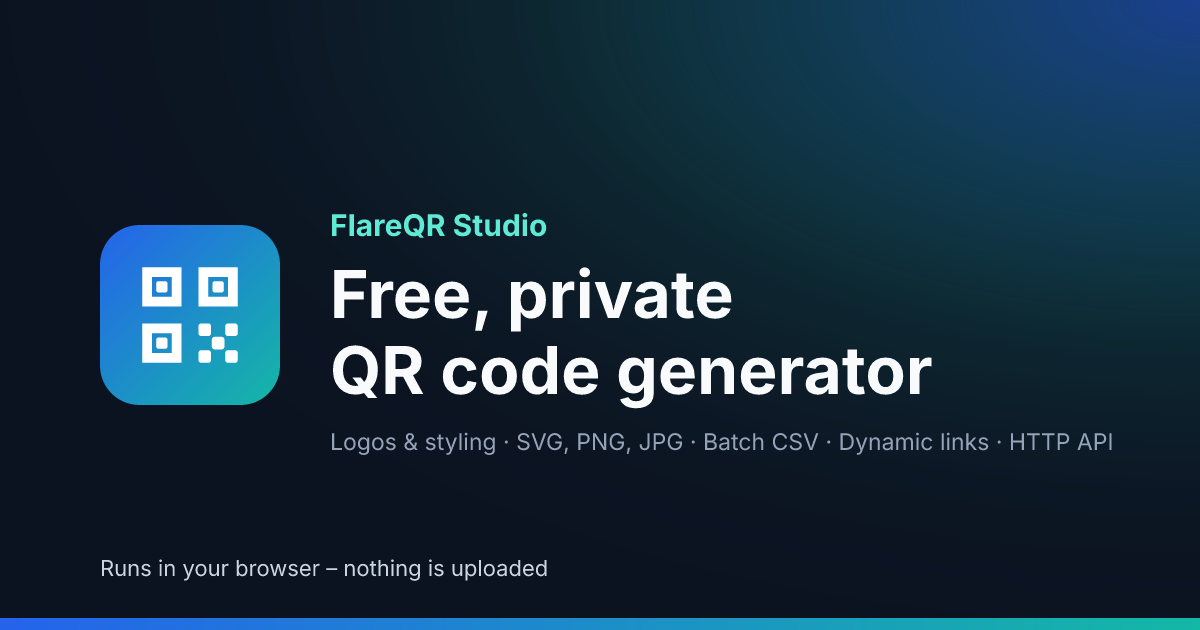
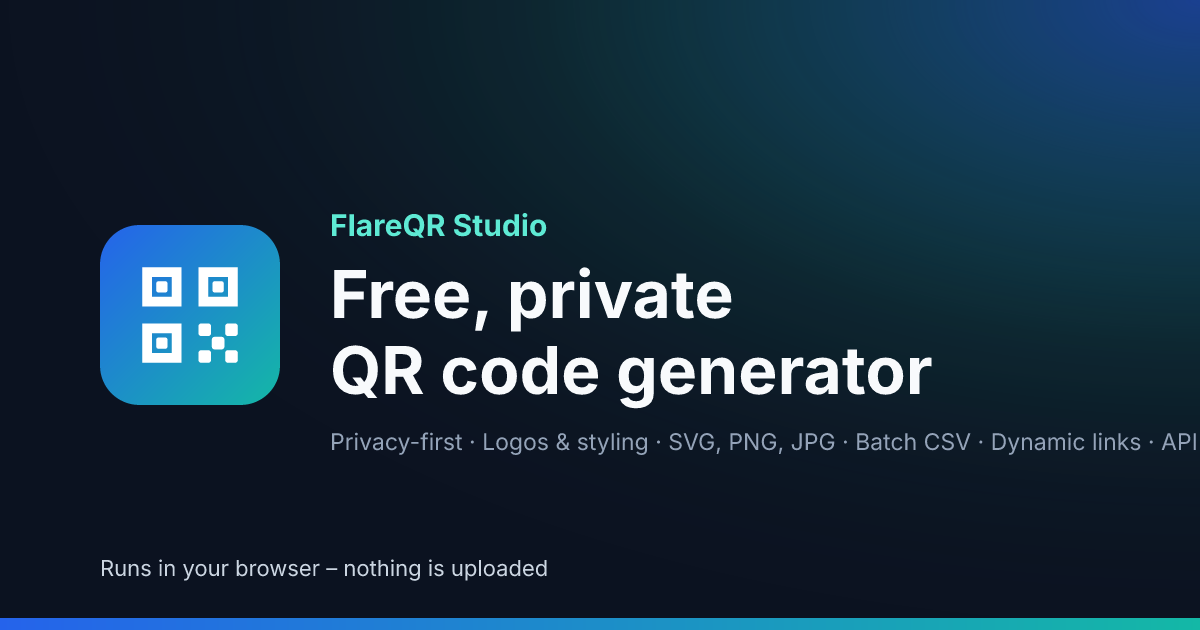
Add privacy-first and toolkit marketing copy to SEO metadata and an About section below the editor
- branding.seo: privacy-led description, keywords, about copy and feature list
- JSON-LD gains keywords and featureList
- New AboutSection rendered under the Studio editor (not in the header)
- OG image caption leads with privacy

Changed region(s): [[0.2775, 0.6635, 1.0, 0.7238]]

diff --git a/src/config/branding.ts b/src/config/branding.ts
@@ -36,12 +36,52 @@ export const branding = {
     titleTagline: 'Free, private QR code generator',
     /** Meta description / social preview text (aim for ≤ 160 characters). */
     description:
-      'Create styled QR codes with logos and export SVG, PNG or JPG – free, in your browser, nothing uploaded. Batch CSV generation, dynamic links and an HTTP API.',
+      'Privacy-first QR code generator – everything runs in your browser, nothing is uploaded. Logos and styling, SVG/PNG/JPG export, batch CSV, dynamic links and an HTTP API.',
+    /** Search keywords (JSON-LD `keywords`); pick the phrases people actually search for. */
+    keywords: [
+      'QR code generator',
+      'privacy-first QR code',
+      'QR code with logo',
+      'SVG QR code',
+      'batch QR codes from CSV',
+      'dynamic QR codes',
+      'QR code API',
+      'self-hosted QR code generator',
+      'open source',
+      'Cloudflare Workers',
+    ],
     /** Visible <h1> of the Studio view. */
     headline: 'Free, private QR code generator',
     /** One-sentence intro shown next to the headline. */
     intro:
       'Design QR codes with logos and colours, check scan reliability and export SVG, PNG or JPG – generated locally in your browser.',
+    /**
+     * Marketing copy shown below the editor on the Studio view and mirrored in
+     * the JSON-LD `featureList` so search engines see the same message.
+     */
+    about: {
+      privacy: {
+        title: 'Privacy first',
+        text: 'Every QR code is generated locally in your browser: the content you enter is never uploaded, logged or tracked. No accounts, no analytics, no third-party scripts. Self-host it on your own Cloudflare account and stay in full control of your data.',
+      },
+      toolkit: {
+        title: 'A complete QR toolkit',
+        text: 'Far more than a URL-to-QR converter – one open-source studio covers the whole workflow from design to automation.',
+      },
+    },
+    /** Tools and capabilities, listed on the Studio view and in structured data. */
+    features: [
+      '20 content types: URL, text, Wi-Fi, vCard, MeCard, email, phone, SMS, WhatsApp, events, location, SEPA, Bitcoin, Ethereum, 2FA and more',
+      'Module and finder styles, colours, gradients, frames and captions',
+      'Logo embedding that keeps codes scannable',
+      'Scan-reliability check with one-click safe defaults',
+      'SVG, PNG and JPG export, clipboard and data-URL copy',
+      'Batch generation from CSV with ZIP download',
+      'Editable dynamic links with scan statistics',
+      'Presets, undo/redo, local history and an offline-capable PWA',
+      'Documented HTTP API with OpenAPI 3.1 specification',
+      'Self-hosted on Cloudflare Workers, open source (MIT)',
+    ],
     /** 1200×630 social preview image served from the assets directory (see scripts/generate-icons.mjs). */
     imagePath: '/og-image.png',
     /** Twitter/X card type. */

diff --git a/src/app/components/layout/AboutSection.tsx b/src/app/components/layout/AboutSection.tsx
@@ -1,0 +1,45 @@
+import { Check, ShieldCheck, Wrench } from 'lucide-react';
+
+import { branding } from '../../../config/branding';
+import { cn } from '../../lib/cn';
+import { useServer } from '../../store/server';
+
+/**
+ * Marketing copy shown below the editor on the Studio view: the privacy model
+ * and the breadth of tools. Deliberately outside the header so the working
+ * area stays uncluttered while crawlers still find descriptive, visible text.
+ */
+export function AboutSection({ className }: { className?: string }) {
+  const appName = useServer((s) => s.features.appName) || branding.name;
+  const { about, features } = branding.seo;
+
+  return (
+    <section aria-labelledby="about-heading" className={cn('grid gap-4 lg:grid-cols-[2fr_3fr]', className)}>
+      <h2 id="about-heading" className="sr-only">
+        About {appName}
+      </h2>
+      <div className="panel p-5">
+        <h3 className="flex items-center gap-2 text-base font-semibold">
+          <ShieldCheck size={18} aria-hidden className="text-accent-600 dark:text-accent-400" />
+          {about.privacy.title}
+        </h3>
+        <p className="mt-2 text-sm leading-relaxed text-muted">{about.privacy.text}</p>
+      </div>
+      <div className="panel p-5">
+        <h3 className="flex items-center gap-2 text-base font-semibold">
+          <Wrench size={18} aria-hidden className="text-brand-600 dark:text-brand-300" />
+          {about.toolkit.title}
+        </h3>
+        <p className="mt-2 text-sm leading-relaxed text-muted">{about.toolkit.text}</p>
+        <ul className="mt-3 grid gap-x-4 gap-y-1.5 text-sm sm:grid-cols-2">
+          {features.map((feature) => (
+            <li key={feature} className="flex items-start gap-2">
+              <Check size={14} aria-hidden className="mt-1 shrink-0 text-accent-600 dark:text-accent-400" />
+              <span>{feature}</span>
+            </li>
+          ))}
+        </ul>
+      </div>
+    </section>
+  );
+}

diff --git a/tests/e2e/studio.spec.ts b/tests/e2e/studio.spec.ts
@@ -189,8 +189,19 @@ test.describe('FlareQR Studio', () => {
     await expect(head.locator('meta[property="og:title"]')).toHaveAttribute('content', /FlareQR Studio/);
     await expect(head.locator('meta[property="og:image"]')).toHaveAttribute('content', /og-image\.png$/);
     await expect(head.locator('meta[name="twitter:card"]')).toHaveAttribute('content', 'summary_large_image');
-    const jsonLd = await head.locator('script[type="application/ld+json"]').textContent();
-    expect(JSON.parse(jsonLd ?? '{}')).toMatchObject({ '@type': 'WebApplication', name: 'FlareQR Studio' });
+    const jsonLd = JSON.parse(
+      (await head.locator('script[type="application/ld+json"]').textContent()) ?? '{}',
+    ) as { featureList?: string[]; keywords?: string };
+    expect(jsonLd).toMatchObject({ '@type': 'WebApplication', name: 'FlareQR Studio' });
+    expect(jsonLd.keywords).toMatch(/privacy/i);
+    expect(jsonLd.featureList?.length).toBeGreaterThan(5);
+
+    // Marketing copy lives below the editor, not in the header.
+    const about = page.getByRole('region', { name: /about flareqr studio/i });
+    await expect(about.getByRole('heading', { name: /privacy first/i })).toBeVisible();
+    await expect(about.getByRole('heading', { name: /complete qr toolkit/i })).toBeVisible();
+    await expect(about.getByRole('listitem')).toHaveCount(jsonLd.featureList?.length ?? 0);
+    await expect(page.locator('header').getByText(/privacy first/i)).toHaveCount(0);
   });
 
   test('serves robots.txt, the social image and a real 404 page with a link to the studio', async ({

diff --git a/src/app/App.tsx b/src/app/App.tsx
@@ -12,6 +12,7 @@ import { useServer } from './store/server';
 import { ContentPanel } from './components/content/ContentPanel';
 import { DesignPanel } from './components/design/DesignPanel';
 import { ExportPanel } from './components/export/ExportPanel';
+import { AboutSection } from './components/layout/AboutSection';
 import { Footer } from './components/layout/Footer';
 import { Header, type AppView } from './components/layout/Header';
 import { PreviewPanel } from './components/preview/PreviewPanel';
@@ -113,7 +114,7 @@ export function App() {
                 </aside>
               </div>
             ) : (
-              <div className="flex flex-col gap-3 pb-24">
+              <div className="flex flex-col gap-3">
                 {mobileTab !== 'preview' ? (
                   <div className="panel sticky top-16 z-20 flex items-center gap-3 p-3">
                     <PreviewPanel
@@ -178,6 +179,7 @@ export function App() {
                 </nav>
               </div>
             )}
+            <AboutSection className={cn('mt-6', !isDesktop && 'pb-24')} />
           </>
         ) : null}
 

diff --git a/scripts/seo.ts b/scripts/seo.ts
@@ -58,6 +58,8 @@ function structuredData(siteUrl: string | null): string {
     operatingSystem: 'Any',
     browserRequirements: 'Requires JavaScript',
     isAccessibleForFree: true,
+    keywords: seo.keywords.join(', '),
+    featureList: [...seo.features],
     offers: { '@type': 'Offer', price: '0', priceCurrency: 'USD' },
     license: 'https://opensource.org/license/mit',
     sameAs: [branding.repositoryUrl],

diff --git a/README.md b/README.md
@@ -421,7 +421,8 @@ Tested with Chromium (desktop + mobile emulation) in CI. Uses standard APIs avai
 
 The studio is a single page, so search-engine optimisation is about describing it correctly rather than about content. The build (`scripts/seo.ts`, `seo` plugin in `vite.config.ts`) generates everything from `branding.seo`:
 
-- `<title>`, meta description, Open Graph and Twitter Card tags, and a JSON-LD `WebApplication` block in `index.html`; a visible `<h1>` heads the Studio view.
+- `<title>`, meta description, Open Graph and Twitter Card tags, and a JSON-LD `WebApplication` block (with `keywords` and a `featureList`) in `index.html`; a visible `<h1>` heads the Studio view.
+- An "About" section below the editor with the two marketing messages – privacy first and the breadth of tools (`branding.seo.about` / `branding.seo.features`) – kept out of the header so the working area stays uncluttered.
 - `public/og-image.png` (1200×630) as the social preview image, rendered by `npm run icons`.
 - `robots.txt` that allows the studio but disallows `/api/` and `/r/`; the Worker additionally sends `X-Robots-Tag: noindex, nofollow` on those routes.
 - A static `404.html` with a link back to the studio; unknown paths return a real HTTP 404 instead of a copy of the app, so crawlers never index stray URLs.

diff --git a/CHANGELOG.md b/CHANGELOG.md
@@ -10,7 +10,7 @@ All notable changes to this project are documented here. The format follows
 
 - Search-engine and link-preview metadata generated at build time from `branding.seo`: title, meta description, Open Graph / Twitter Card tags, JSON-LD `WebApplication` data, `robots.txt` (disallowing `/api/` and `/r/`) and a 1200×630 social preview image (`public/og-image.png`, rendered by `npm run icons`).
 - Optional build-time variable `SITE_URL` that adds the canonical URL, `og:url`, absolute preview-image URLs and `sitemap.xml`.
-- Visible `<h1>` and one-line intro on the Studio view.
+- Visible `<h1>` and one-line intro on the Studio view, plus an "About" section below the editor describing the privacy model and the full toolset (also exposed as JSON-LD `featureList`/`keywords`).
 - API and dynamic-redirect responses send `X-Robots-Tag: noindex, nofollow`.
 
 ### Changed
